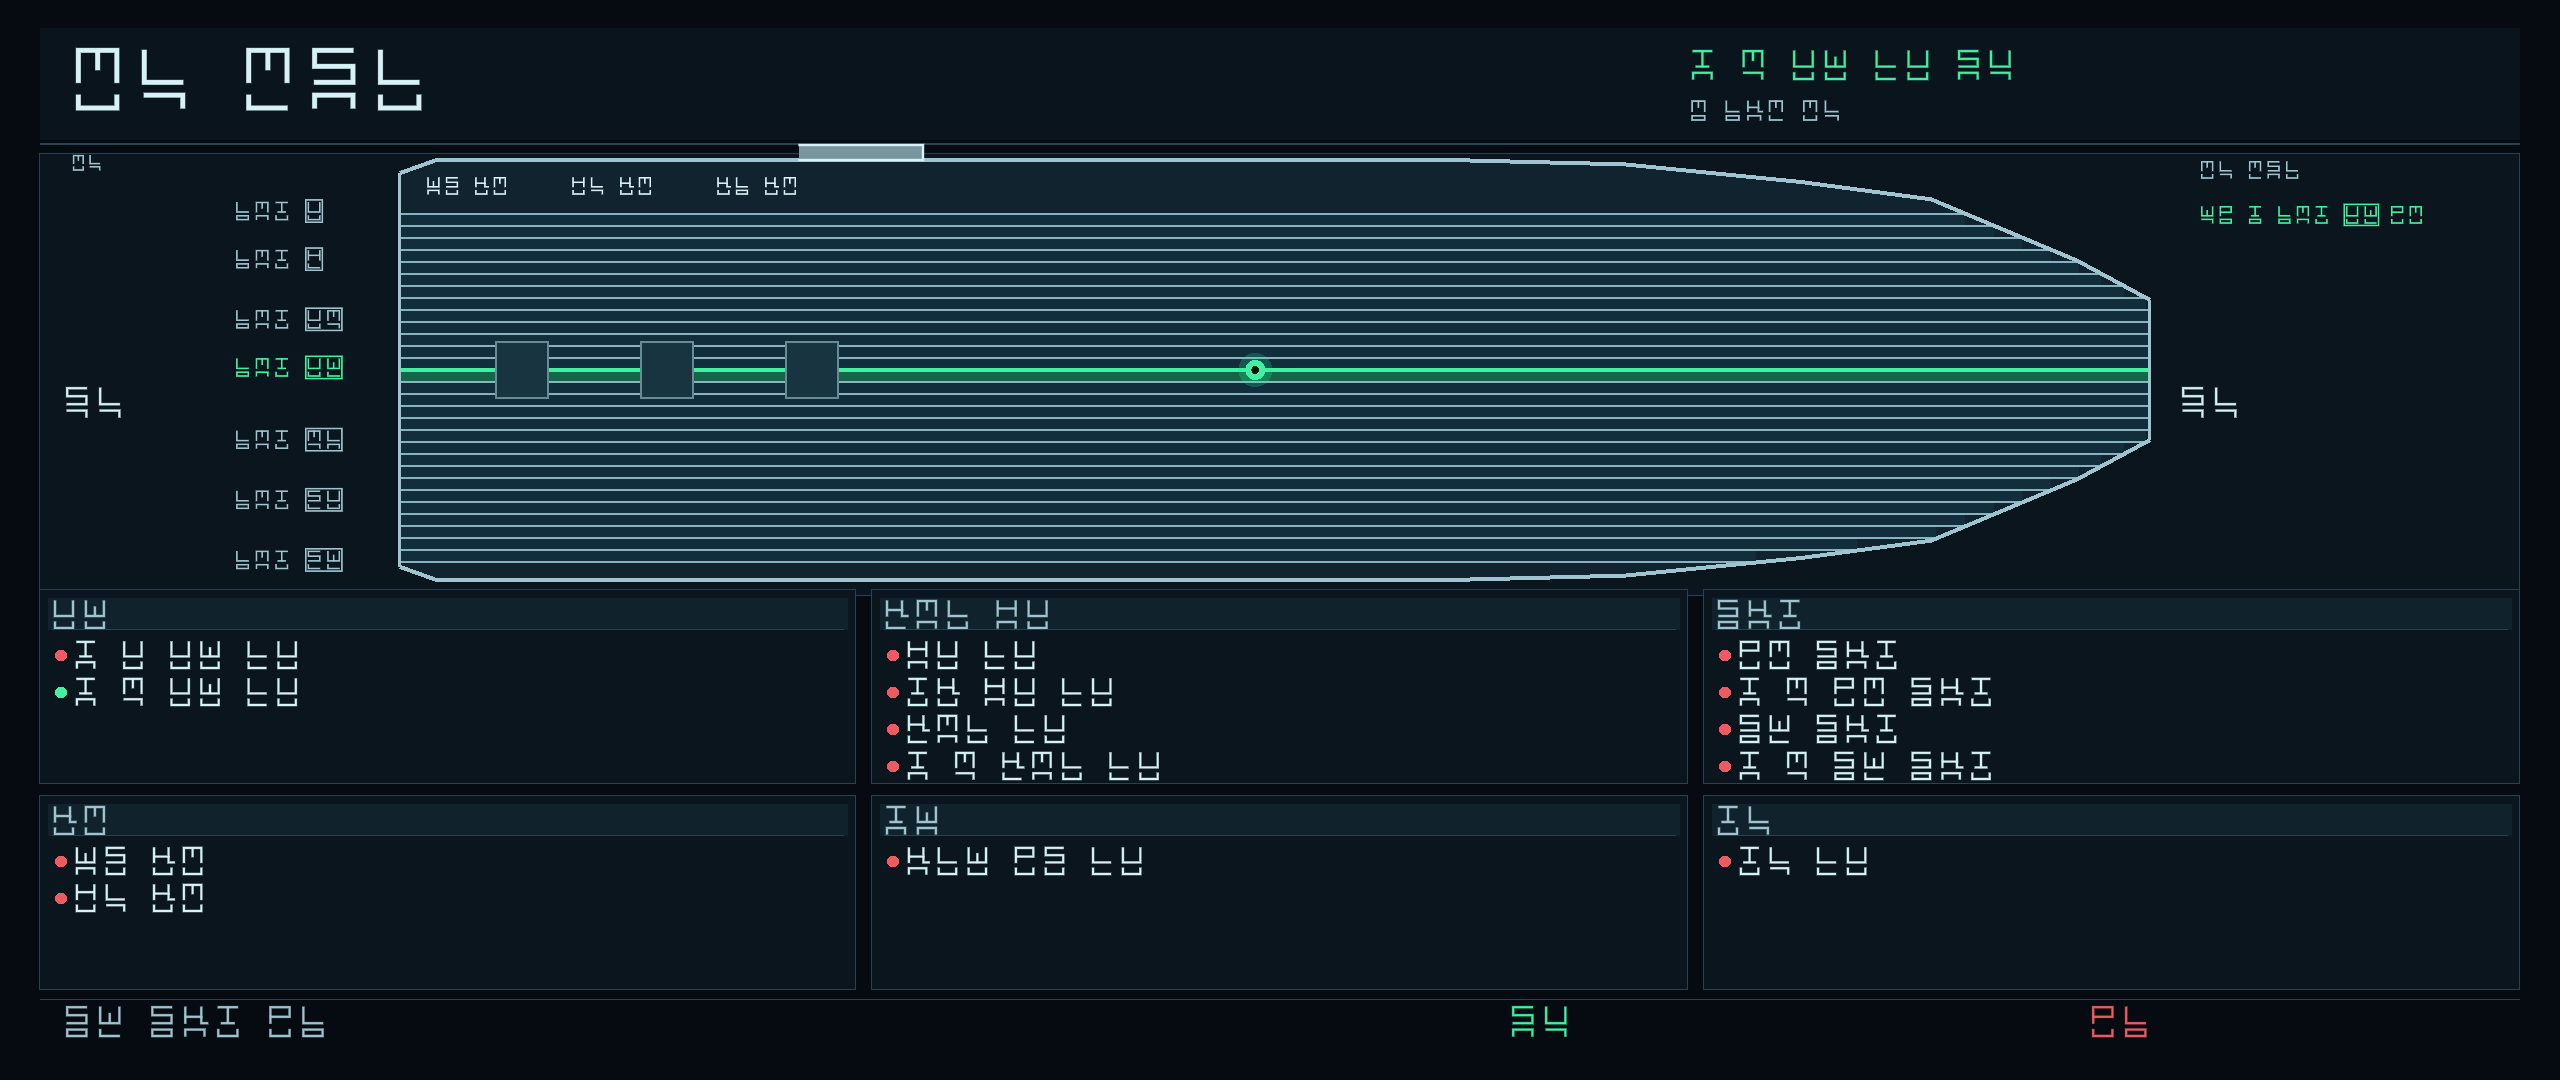
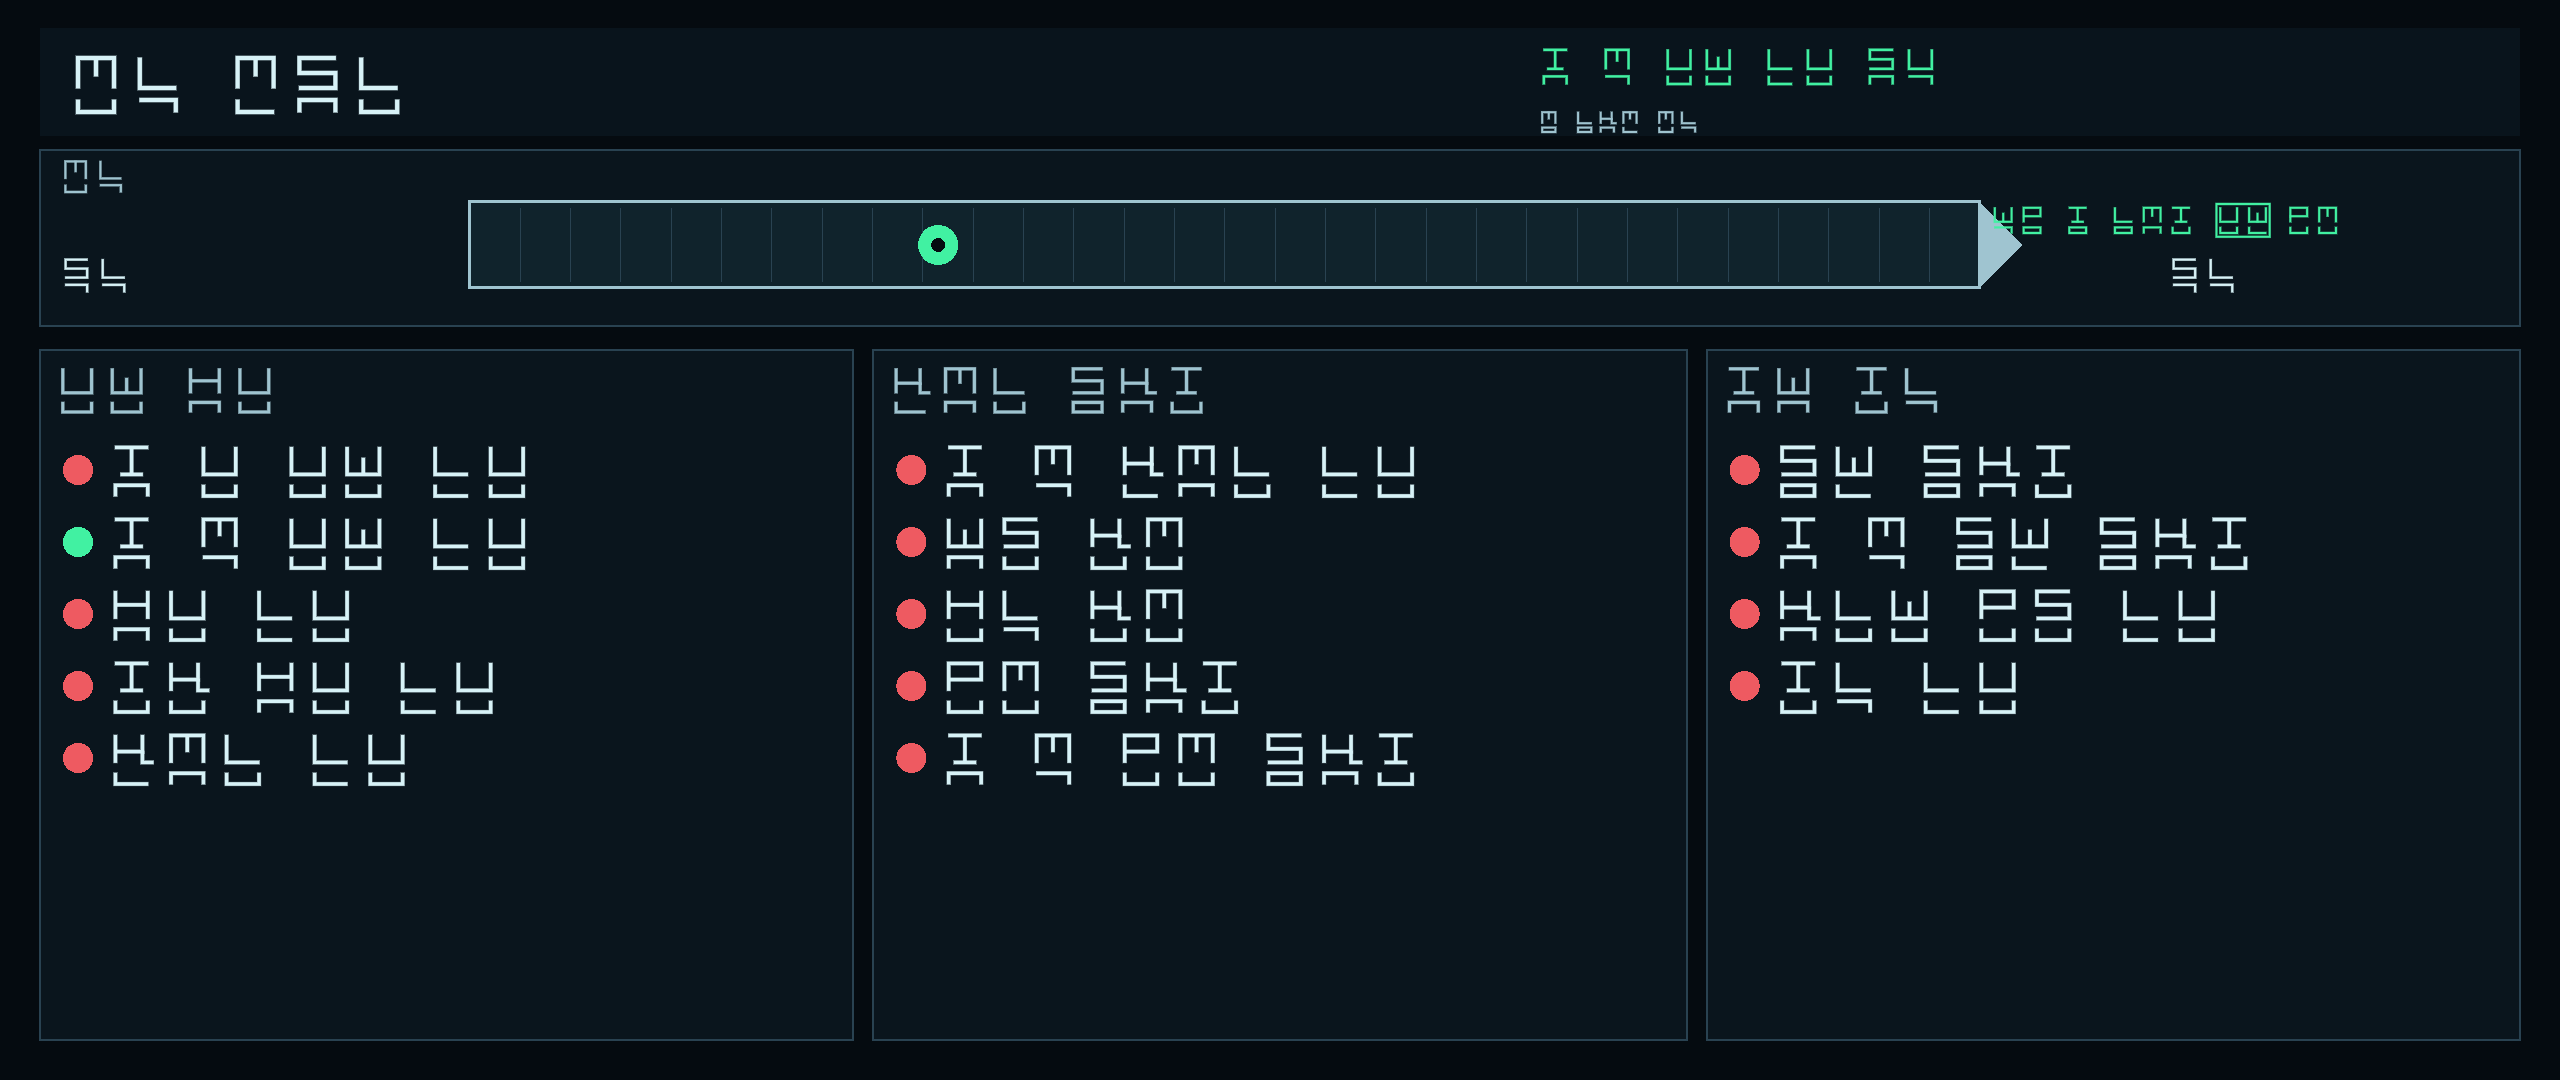
Make north status board readable at a distance

diff --git a/docs/dev/status-board.md b/docs/dev/status-board.md
@@ -1,0 +1,25 @@
+# North-wall status board
+
+The production textures are generated from `StatusBoardData` and `Naleya` by
+`tools/build_status_board.gd`. From the project root, run the windowed renderer
+at the asset's native resolution:
+
+```
+godot --path . --resolution 2560x1080 -s res://tools/build_status_board.gd
+godot --headless --path . --import
+```
+
+The source screen is 2.40 × 1.02 m, the PNGs are 2560 × 1080, and the board
+uses three systems columns. Keep the 40 px render-ink perimeter, verify no ink
+intersections, and preserve identical layout geometry in both languages.
+`StatusBoardData.MINIMUM_ROW_CELL_PX` is the minimum systems-row cell height.
+
+For a 1600 × 900 capture with a 60-degree vertical field of view, a front-facing
+screen at distance `d` projects to `900 × 1.02 / (2 × d × tan(30°))` pixels
+tall. Each texture pixel projects to that value divided by 1080. This gives
+0.3682 screen pixels per texture pixel at 2 m and 0.2455 at 3 m. A 60 px
+texture cap therefore projects to 22.09 px at 2 m and 14.73 px at 3 m. The
+minimum texture cap required by 14 px at 2 m is 38.03 px; the 10 px at 3 m
+requirement is 40.74 px. The stricter requirement is 40.74 px. These figures
+assume straight-on viewing, no perspective foreshortening, and no later image
+scaling.
